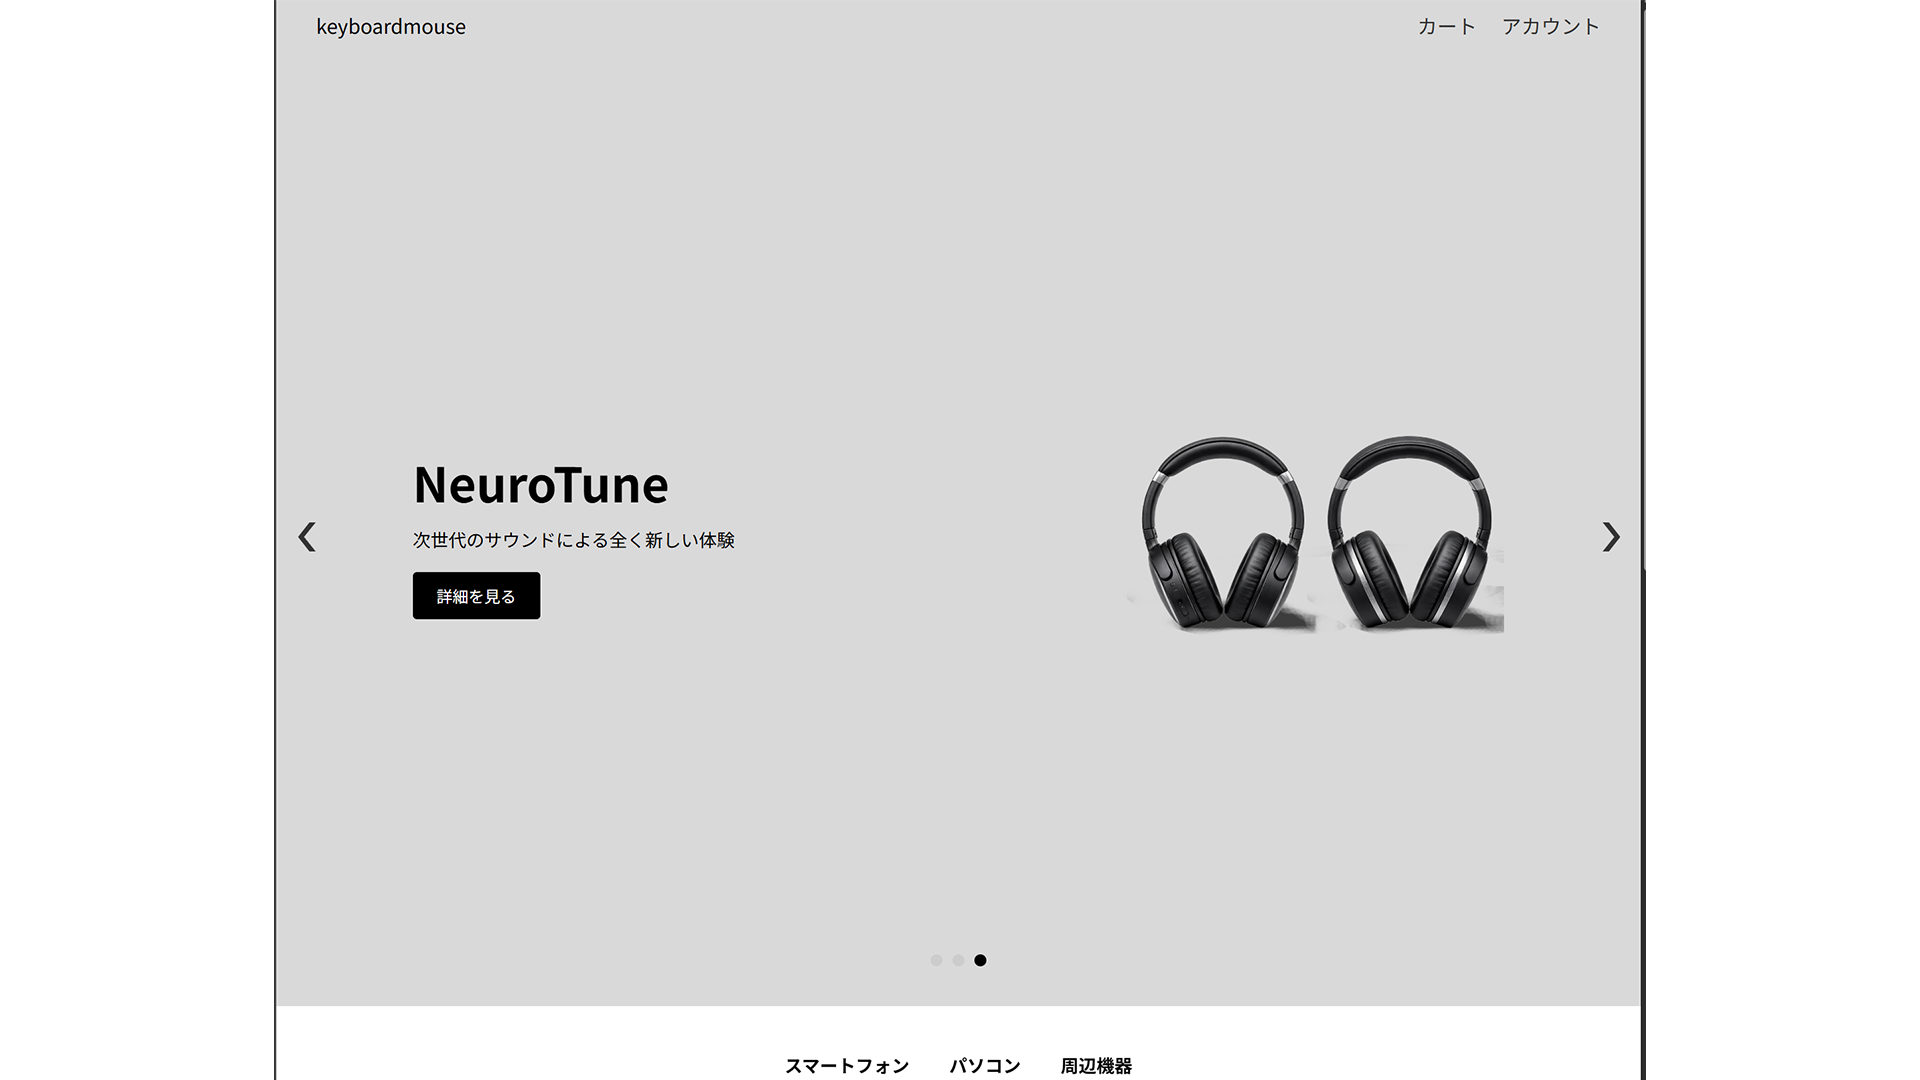
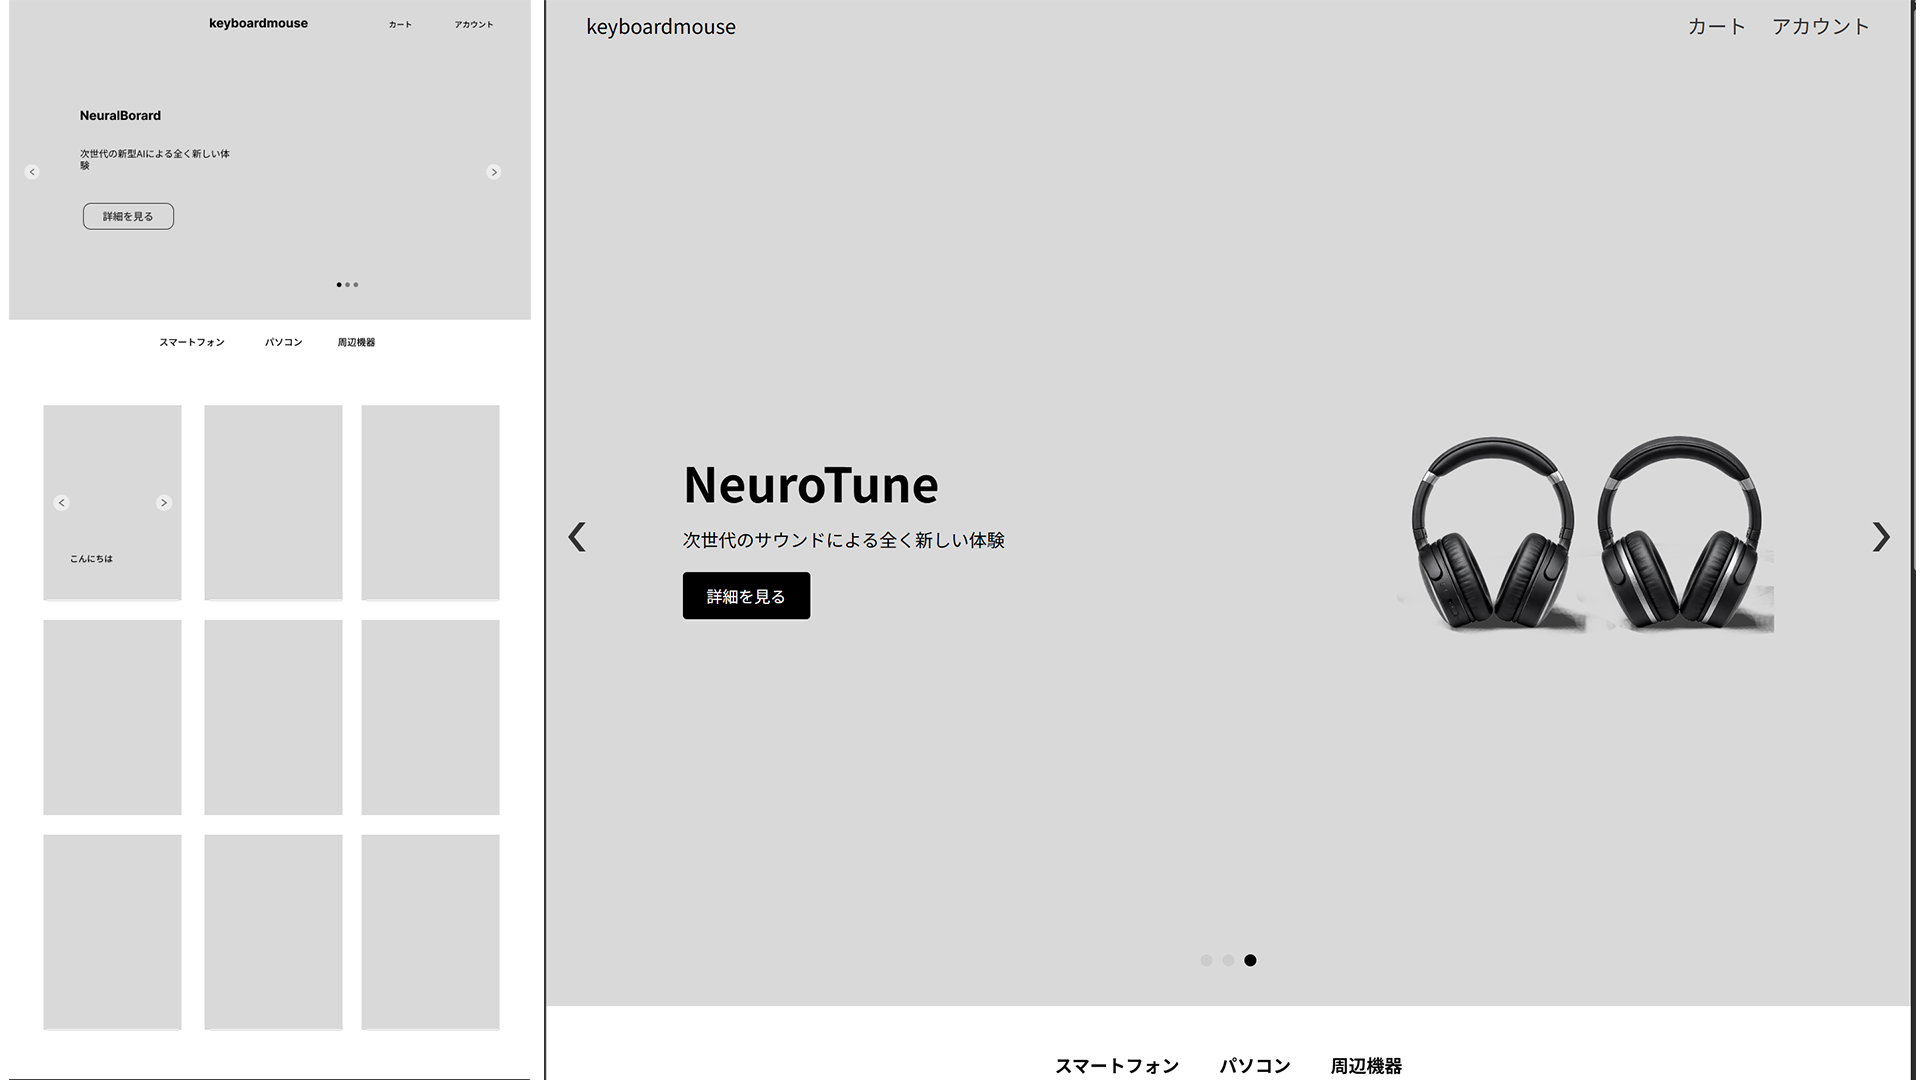
Add files via upload

diff --git a/site.1.html b/site.1.html
@@ -27,8 +27,8 @@
     </div>
     <div class="ui-text">
         <p class="ui-text1">Javascriptの練習として作成した電子機器の販売サイトです。</p>
-        <p class="ui-text2">UIはエルメスの販売サイトを参考にしつつ、想定している顧客層を考え、落ち着いたモノトーンを基調としたデザインにしました。<br>
-        </p>
+        <p class="ui-text2">UIはエルメスの販売サイトを参考にしつつ、想定している顧客層が男性でしたので、落ち着いたモノトーンを基調としたデザインにしました。<br>
+                            画像の左側はFigmaで簡単に制作したデザインのラフです。急いでの制作でしたので、デザイン出しは２時間程で終わり、コーディングには1週間半ほどかかりました。</p>
         
         <p class="ui-text3">https://masayam226-maker.github.io/hardware-store-website-/</p>
         </div>
